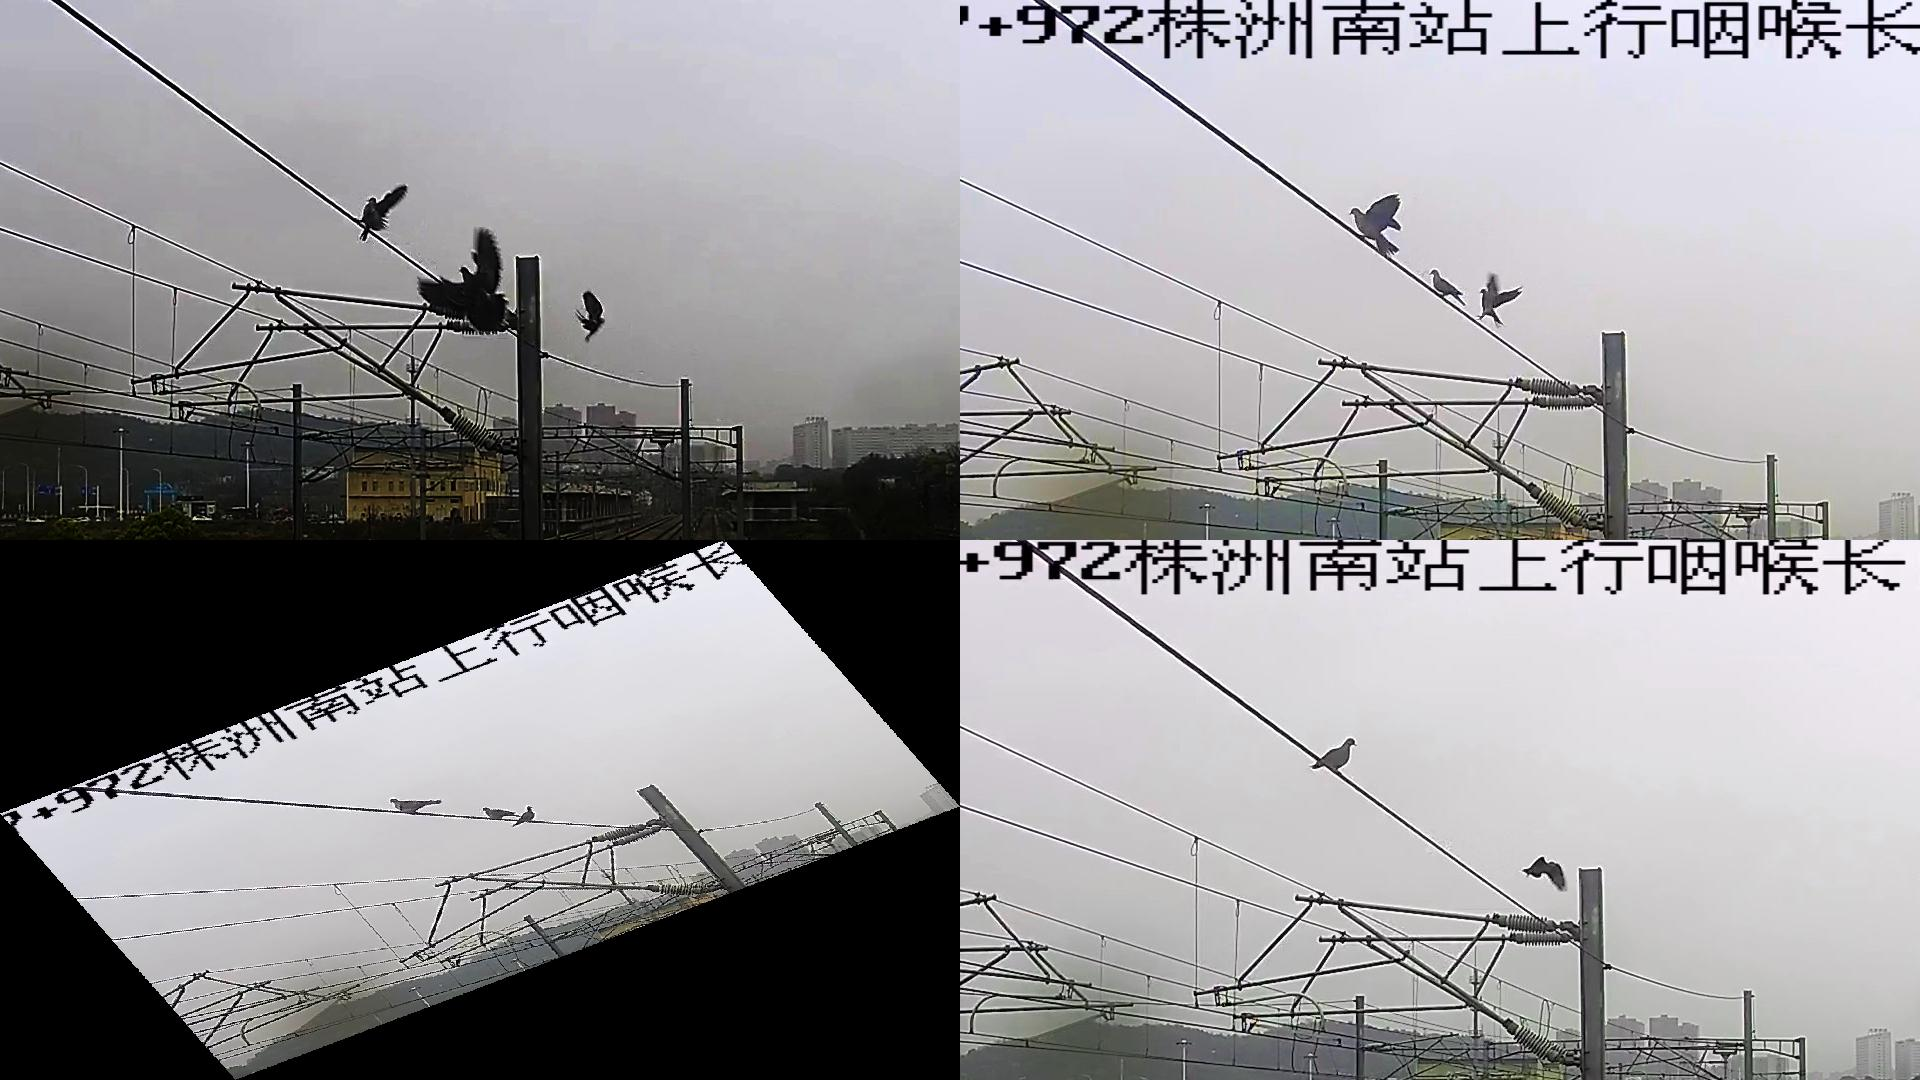
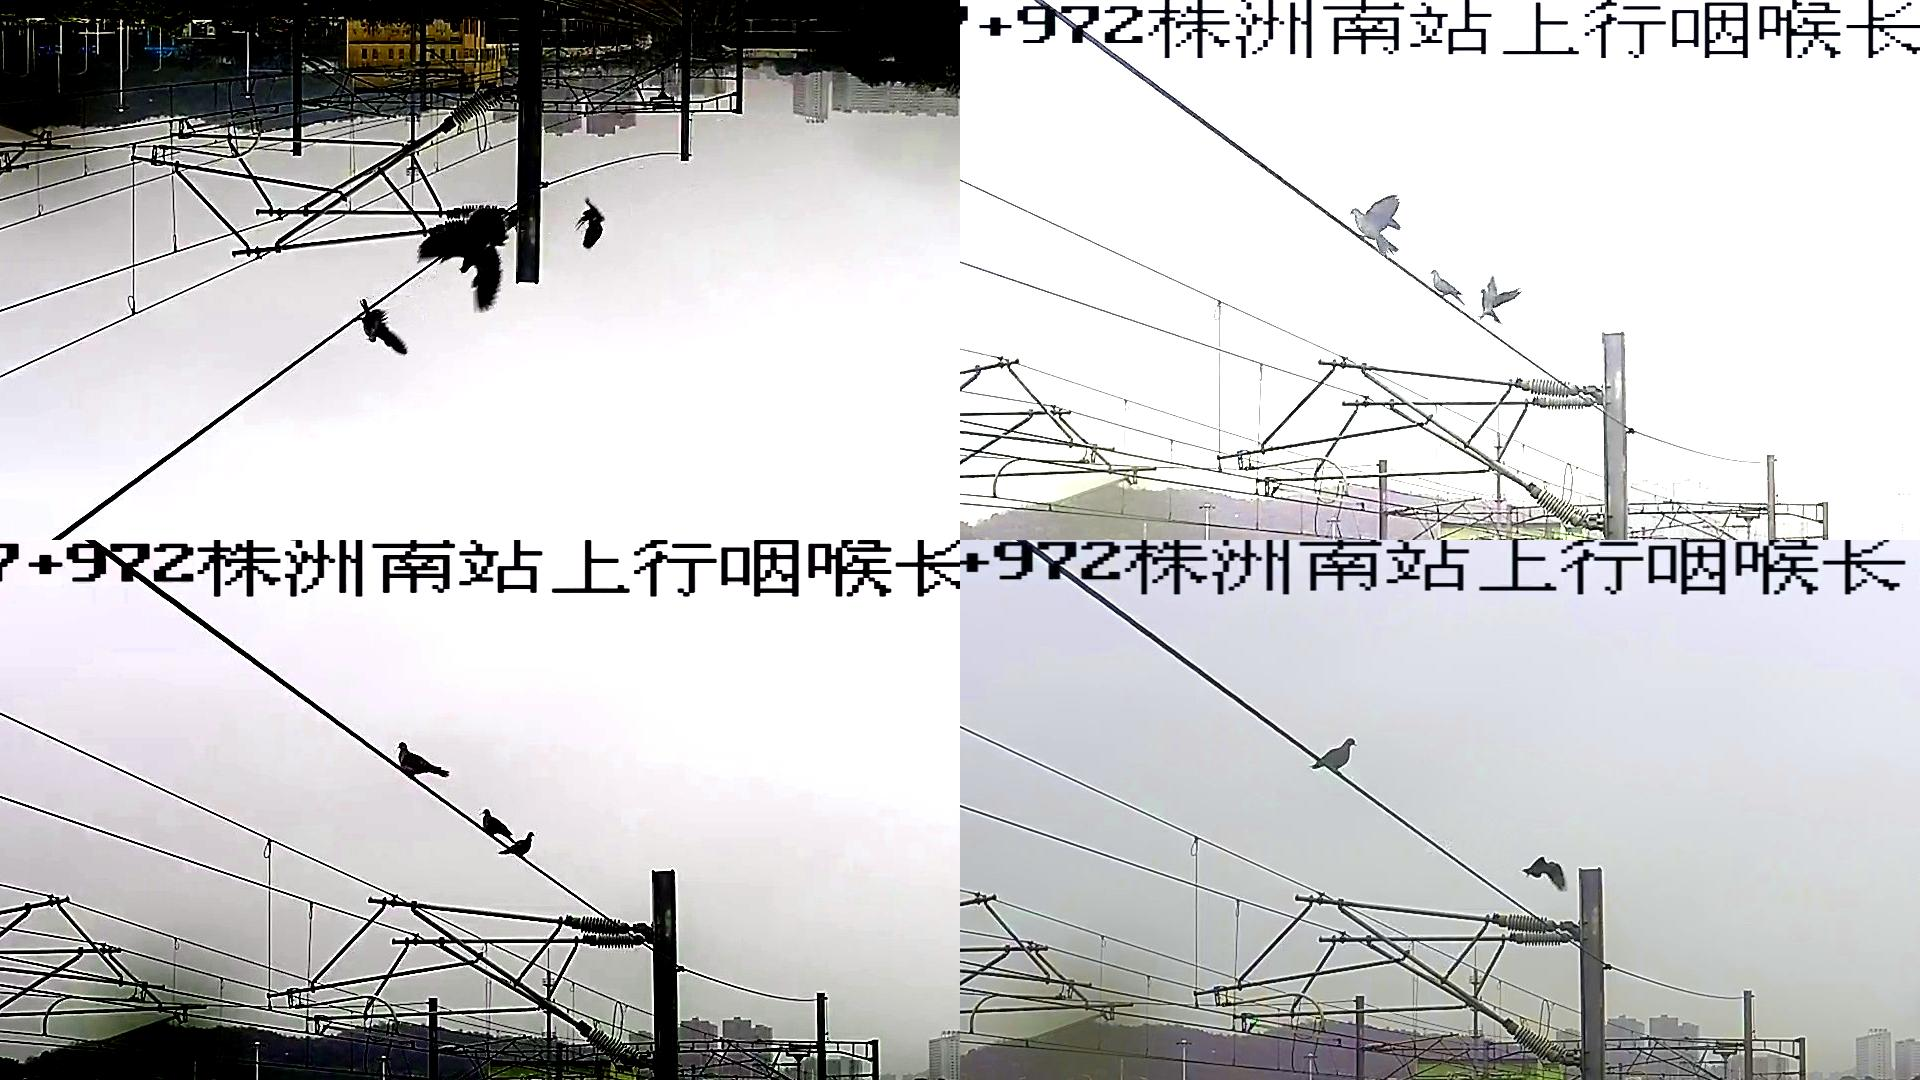
修复了N=2时图片与目标检测框不对应的问题

diff --git a/src/rand_augmentation.py b/src/rand_augmentation.py
@@ -4,8 +4,8 @@ import matplotlib.pyplot as plt
 import transform
 
 transforms = [
-    "AdjustContrast", "AdjustBrightness","AdjustSaturation",
-    "AdjustHue", "AdjustGamma", "LightingNoise", "Hflip", "Vflip","Rotate"
+    "AdjustContrast", "AdjustBrightness", "AdjustSaturation",
+    "AdjustHue", "AdjustGamma", "LightingNoise", "Hflip", "Vflip", "Rotate"
 ]
 
 NAME_TO_FUNC = {
@@ -20,18 +20,22 @@ NAME_TO_FUNC = {
     "Rotate": transform.rotate,
 }
 dict = {}
-def randaugment(img, bbox, N = 1):
+
+
+def randaugment(img, bbox, N=2):
     ops = np.random.choice(transforms, N)
-    transform_img = img
+    transform_img = img.copy()
     new_bbox = bbox
-    for op in ops:
+    for op in ops:  # 计算randaugment使用频率
         print(op)
         if dict.get(op) == None:
             dict[op] = 1
         else:
             dict[op] += 1
-        transfrom_img, new_bbox= NAME_TO_FUNC[op](transform_img, new_bbox)
-    return transfrom_img, new_bbox, dict
+        transform_img, new_bbox = NAME_TO_FUNC[op](transform_img, new_bbox)
+
+    return transform_img, new_bbox, dict
+
 
 """
 img = Image.open("../save/256_crop.jpg")
@@ -39,7 +43,3 @@ plt.figure("test")
 plt.imshow(randaugment(img))
 plt.show()
 """
-
-
-
-
